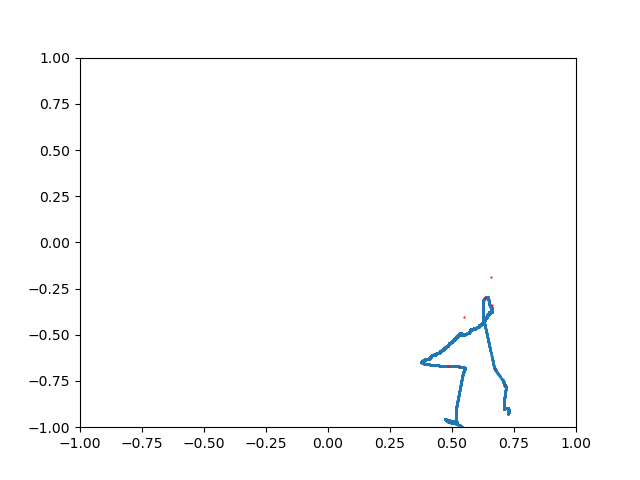
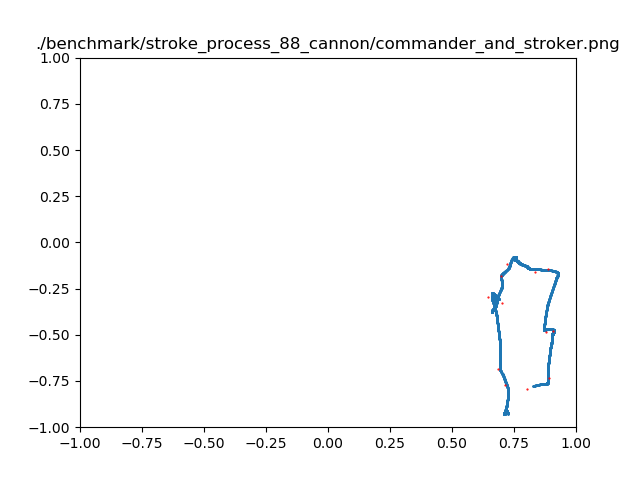
Run all benchmark with original

Changed region(s): [[0.0625, 0.0625, 0.9688, 0.125], [0.6562, 0.5312, 0.875, 0.875], [0.6875, 0.8125, 0.7188, 0.9062]]

diff --git a/sketcher.py b/sketcher.py
@@ -43,7 +43,8 @@ def vectors_to_strokes(start, vectors):
 if __name__ == "__main__":
     PATH_PREFIX = "./benchmark/stroke_process_"
     PATH_DIRNAME = [ "15_campfire", "37_calculator", "52_bandage", "88_cannon", "96_bicycle", "35_birthdaycake", "43_brain", "6_effel_tower", "95_candle", "97_bucket" ]
-    PATH_POSTFIX = "/stroker_input.npy"
+    PATH_POSTFIX_COMMANDER = "/stroker_input.npy"
+    PATH_POSTFIX_ORIGINAL = "/original_input.npy"
 
     # make environment
     env = gym.make('turtlebot3_env/Turtlebot3-real-v0')
@@ -51,16 +52,24 @@ if __name__ == "__main__":
     # load model
     try:
         model = DQN("MlpPolicy", env, verbose=1)
-        model = DQN.load("./stroker/dqn_turtlebot")
-        model.set_parameters("./stroker/dqn_turtlebot")
+        model = DQN.load("./dqn_turtlebot")
+        model.set_parameters("./dqn_turtlebot")
 
         for dirname in PATH_DIRNAME:
-            path = PATH_PREFIX + dirname + PATH_POSTFIX
-            commands = np.load(path)
+            path_command = PATH_PREFIX + dirname + PATH_POSTFIX_COMMANDER
+            commands = np.load(path_command)
             start, vectors = commands_to_vectors(commands)
             start, strokes = vectors_to_strokes(start, vectors)
 
-            draw(env, model, PATH_PREFIX + dirname + "/", start, strokes)
+            draw(env, model, PATH_PREFIX + dirname + "/commander_and_stroker.png", start, strokes)
+            env.clear()
+
+            path_original = PATH_PREFIX + dirname + PATH_POSTFIX_ORIGINAL
+            original = np.load(path_original)
+            start, vectors = commands_to_vectors(original)
+            start, strokes = vectors_to_strokes(start, vectors)
+
+            draw(env, model, PATH_PREFIX + dirname + "/stroker.png", start, strokes)
             env.clear()
     finally:
         env.close()

diff --git a/turtlebot3_env/turtlebot3_env/envs/turtlebot3_real_env.py b/turtlebot3_env/turtlebot3_env/envs/turtlebot3_real_env.py
@@ -164,12 +164,13 @@ class Turtlebot3RealEnv(gym.Env):
         self.state["info"] = self.get_info()
 
     # render the trajectory
-    def show(self, path):
+    def show(self, title):
+        plt.title(title)
         plt.scatter(*zip(*self.trajectory), s=0.3)
         plt.scatter(*zip(*self.targets), c='red',s=0.3)
         plt.xlim(-1, 1)
         plt.ylim(-1, 1)
-        plt.savefig(path + "commander_and_stroker.png")
+        plt.savefig(title)        
         #plt.show()
     
     # clear the canvas

diff --git a/turtlebot3_env/turtlebot3_env/envs/turtlebot3_gazebo_env.py b/turtlebot3_env/turtlebot3_env/envs/turtlebot3_gazebo_env.py
@@ -96,9 +96,11 @@ class Turtlebot3GazeboEnv(gym.Env):
             return True, 1
 
         # no improvement (comment out on deployment)
+        """
         if self.dist_to_goal() > self.dist_min + 0.01:
             print(f"NO IMPROVEMENT : {self.dist_to_goal()} {self.dist_min}")
             return True, 3
+        """
 
         # out of canvas
         if self.state["agent"][0] > 1 or self.state["agent"][0] < -1 or self.state["agent"][1] > 1 or self.state["agent"][1] < -1:
